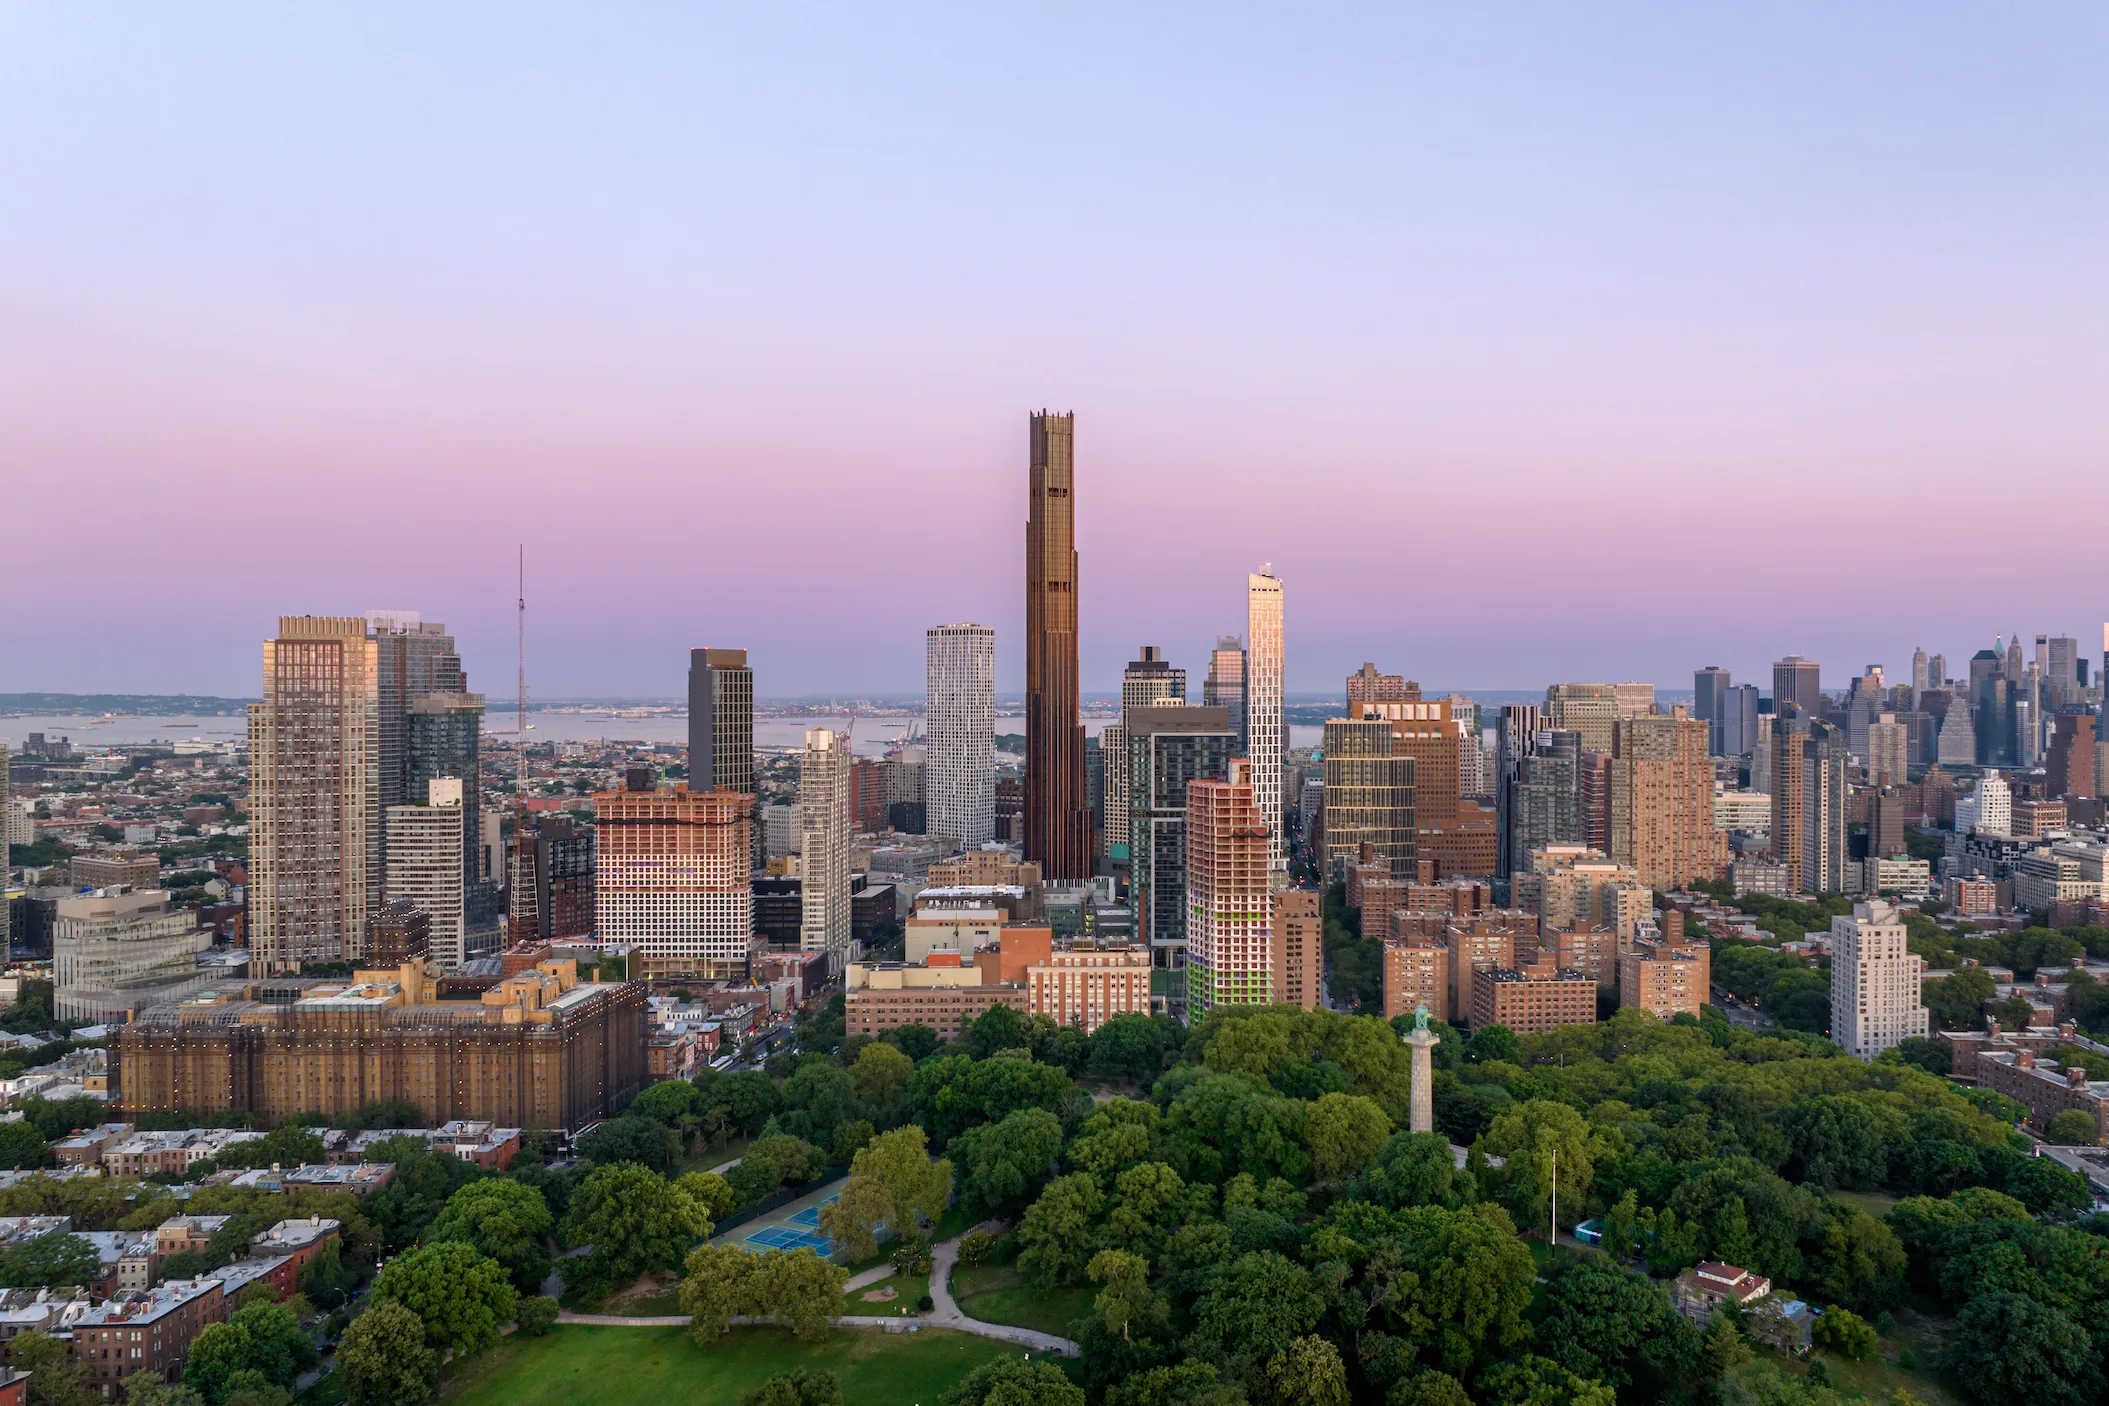
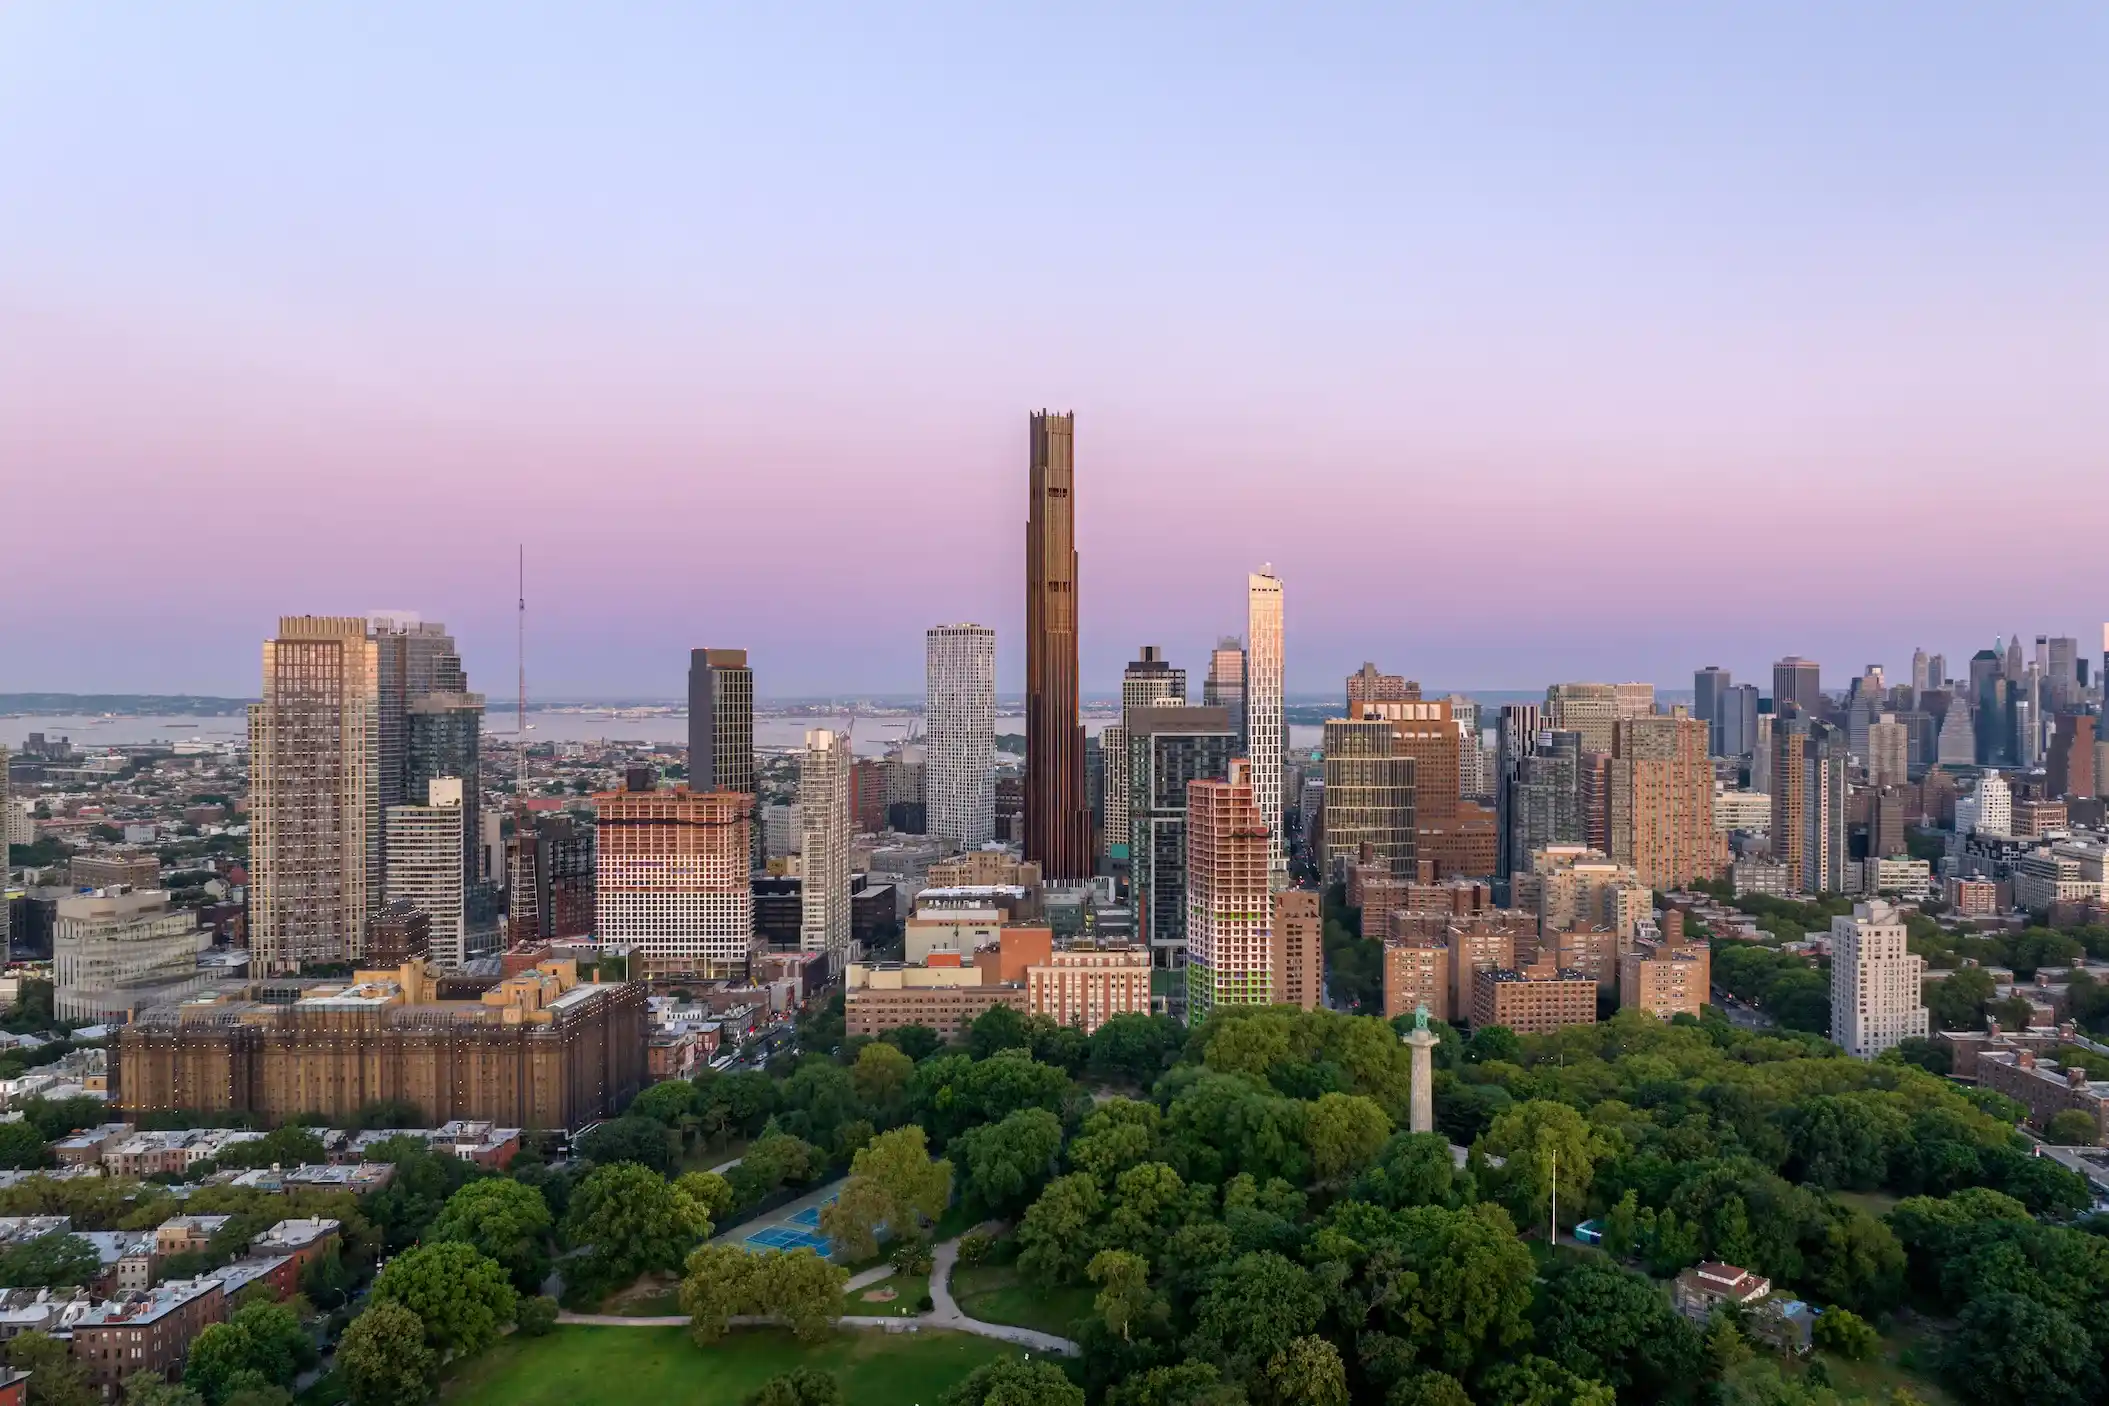
fixed img again

Changed region(s): [[0.2774, 0.6117, 0.339, 0.6422]]

diff --git a/app/components/sections/home/Hero.tsx b/app/components/sections/home/Hero.tsx
@@ -11,9 +11,9 @@ const HERO_IMAGES = [
   { src: '/hero-4.webp', alt: 'Waterstone Hero Fourth' },
 ] as const;
 
-/** Delay carousel until after first paint / LCP window. */
-const CAROUSEL_START_DELAY_MS = 4000;
-const ROTATION_INTERVAL_MS = 4500;
+/** Start rotating soon after first paint; keep later slides deferred. */
+const CAROUSEL_START_DELAY_MS = 800;
+const ROTATION_INTERVAL_MS = 3000;
 const TRANSITION_DURATION_MS = 800;
 
 /** Full-bleed hero: serve smaller files on phones. */
